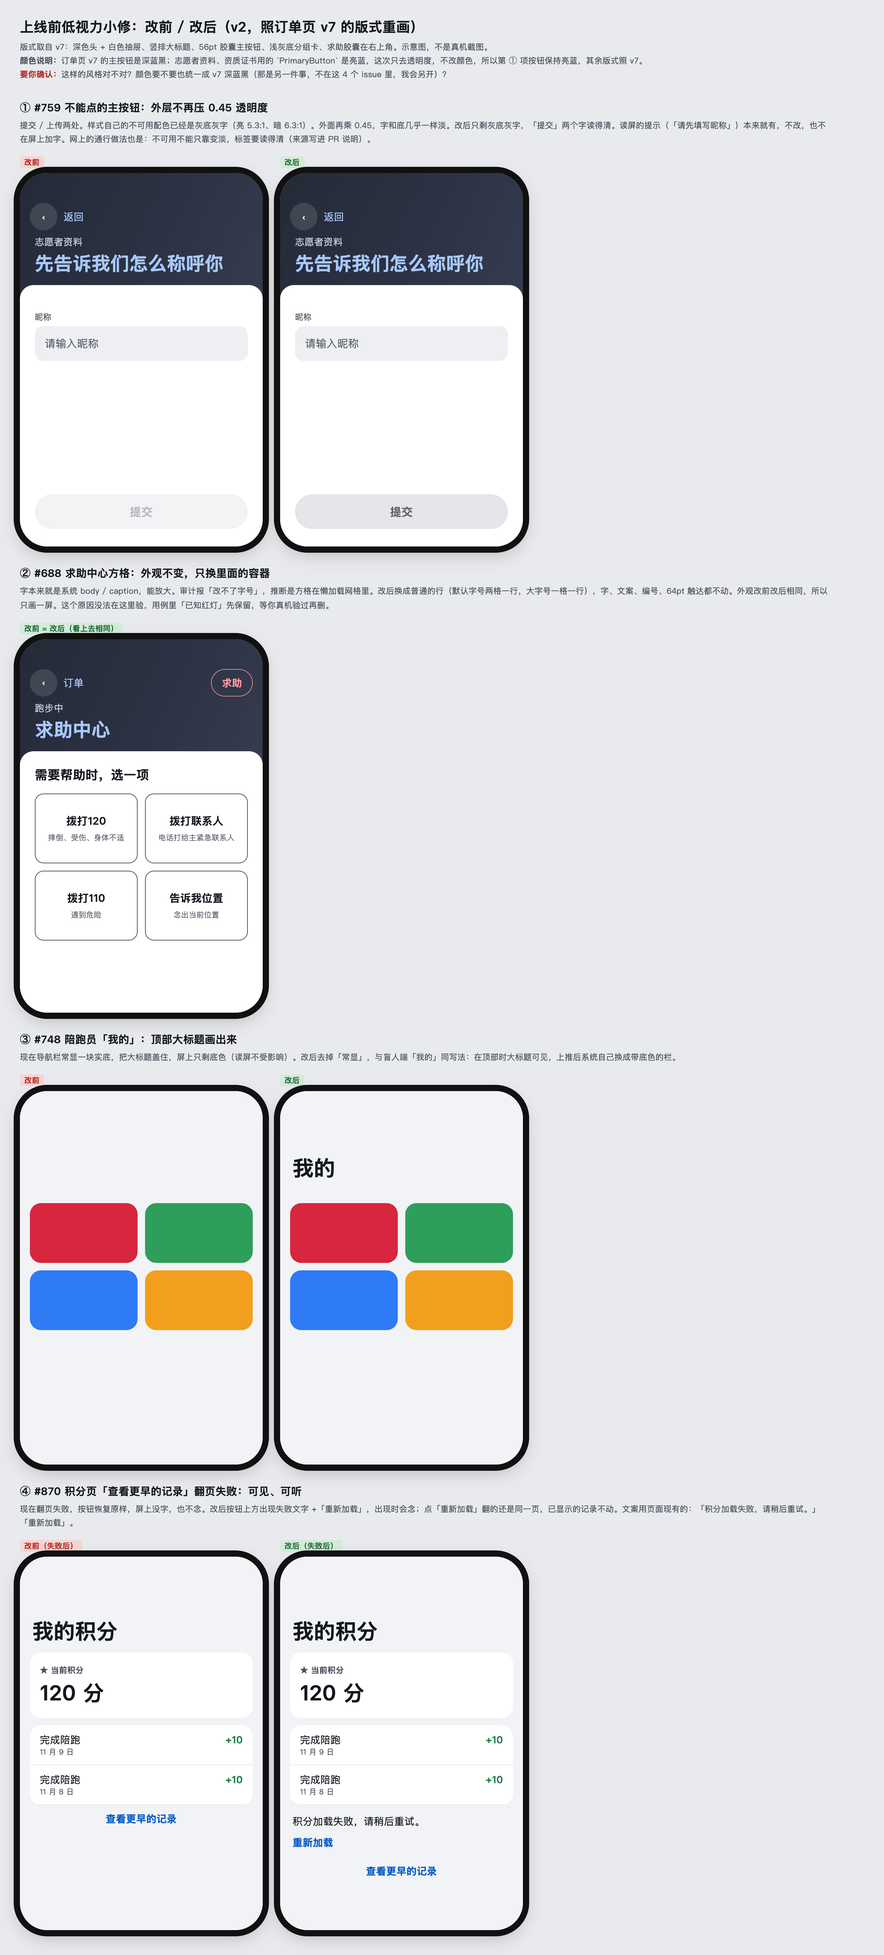
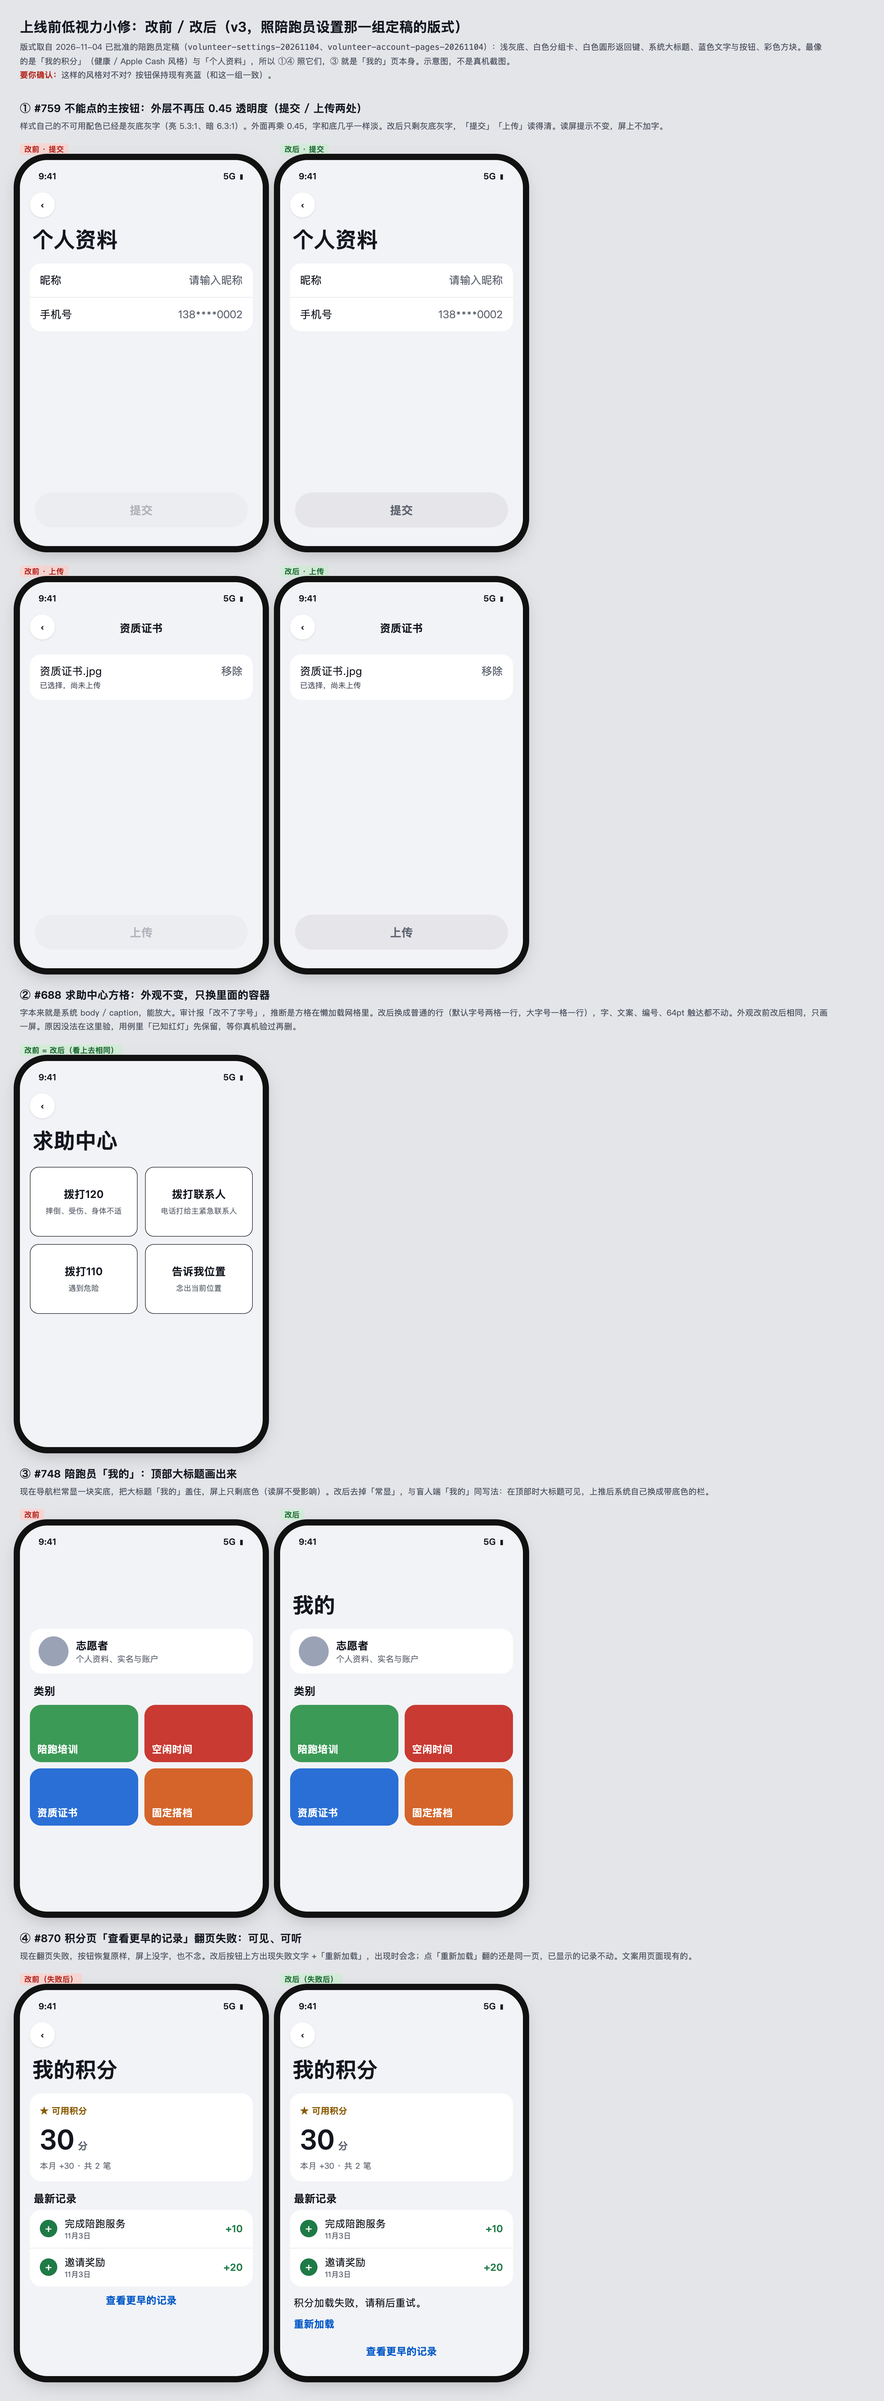
docs: 低视力小修模拟图改照陪跑员设置组定稿版式（v3）

Changed region(s): [[0.0, 0.1872, 0.6197, 0.9984], [0.0, 0.0, 0.6197, 0.156], [0.5268, 0.4056, 0.5577, 0.4368]]

diff --git a/docs/ui/mockups/lowvision-fixes-20261111/draft.html b/docs/ui/mockups/lowvision-fixes-20261111/draft.html
@@ -1,122 +1,62 @@
 <!doctype html>
-<html lang="zh-Hans">
-<head>
-<meta charset="utf-8">
-<title>上线前低视力小修 改前 / 改后（v2：照订单页 v7 的版式，2026-11-11，#759 #688 #748 #870）</title>
-<style>
-  :root{--navy:#1F2433;--ink:#14171F;--ink2:#4A4F5C;--ink3:#5F6470;--line:#E6E7EB;--page:#E9EAEE;--chip:#EEEFF2;
-    --title:#A8C8FF;--red:#D7263D;--blue:#0058C7;--g5:#E5E5EA;--green:#1E7A46}
+<html lang="zh-Hans"><head><meta charset="utf-8"><title>上线前低视力小修 改前 / 改后（v3：照陪跑员「我的」「个人资料」「积分」定稿的版式，2026-11-11）</title><style>
+  :root{--ink:#14171F;--ink2:#4A4F5C;--ink3:#5F6470;--line:#E6E7EB;--page:#F2F3F6;--bg:#E4E5E9;--blue:#0058C7;--g5:#E5E5EA;--green:#1E7A46}
   *{box-sizing:border-box;margin:0;padding:0}
-  body{font-family:-apple-system,"PingFang SC","Helvetica Neue",sans-serif;background:var(--page);color:var(--ink);padding:28px 32px 40px}
+  body{font-family:-apple-system,"PingFang SC","Helvetica Neue",sans-serif;background:var(--bg);color:var(--ink);padding:28px 32px 40px}
   h1{font-size:22px;margin-bottom:6px}
   .lead{font-size:13px;color:var(--ink2);line-height:1.7;max-width:1300px;margin-bottom:22px}
   h2{font-size:17px;margin:30px 0 4px}
   .why{font-size:13px;color:var(--ink2);line-height:1.7;max-width:1300px;margin-bottom:14px}
   .row{display:flex;gap:28px;flex-wrap:wrap;align-items:flex-start}
   .cell{width:390px}
-  .cap{font-size:14px;font-weight:600;margin:12px 0 4px}
   .tag{display:inline-block;font-size:12px;font-weight:700;border-radius:4px;padding:1px 7px;margin-bottom:8px}
   .b{background:#F6D6D3;color:#B3261E}.a{background:#D4EBD9;color:#1B6B30}
-  .note{font-size:12px;color:var(--ink2);line-height:1.6;background:#fff;border-radius:12px;padding:12px 14px;margin-top:10px}
   .ask{color:#B3261E;font-weight:600}
-  /* 手机壳与 v7 同款 */
-  .phone{width:390px;height:600px;border-radius:44px;overflow:hidden;position:relative;background:#fff;box-shadow:0 0 0 10px #111,0 10px 30px rgba(0,0,0,.25)}
-  .top{position:absolute;left:0;right:0;top:0;height:96px;padding:44px 16px 0;display:flex;align-items:center;gap:10px;z-index:5}
-  .round{width:44px;height:44px;border-radius:22px;display:flex;align-items:center;justify-content:center;font-size:18px}
-  .round.dark{background:rgba(255,255,255,.12);color:#fff}
-  .spacer{flex:1}
-  .sos{height:44px;padding:0 16px;border-radius:22px;font-weight:700;font-size:16px;display:flex;align-items:center;gap:6px;background:transparent;border:1.5px solid #FF8C95;color:#FF9AA2}
-  .back-text{color:var(--title);font-size:16px}
-  .hero{background:linear-gradient(115deg,#252A38 0%,#2C3243 55%,#353C4F 100%);height:200px;padding:100px 24px 0;color:#fff}
-  .hero .k{font-size:15px;color:#C9CFDB;margin-bottom:6px}
-  .hero .t{font-size:30px;font-weight:700;color:var(--title);line-height:1.25}
-  .sheet{position:absolute;left:0;right:0;bottom:0;top:180px;background:#fff;border-radius:22px 22px 0 0;padding:24px 24px 0}
-  .place{font-size:20px;font-weight:700}
-  .sub{font-size:15px;color:var(--ink2);margin-top:4px}
-  .cta{position:absolute;left:24px;right:24px;bottom:28px;height:56px;border-radius:28px;background:var(--navy);color:#fff;font-size:18px;font-weight:700;display:flex;align-items:center;justify-content:center}
-  .cta.blue{background:var(--blue)}
+  .phone{width:390px;height:620px;border-radius:44px;overflow:hidden;position:relative;background:var(--page);box-shadow:0 0 0 10px #111,0 10px 30px rgba(0,0,0,.25)}
+  .sb{position:absolute;left:0;right:0;top:0;height:44px;padding:16px 30px 0;display:flex;justify-content:space-between;font-size:14px;font-weight:600}
+  .back{position:absolute;left:16px;top:52px;width:40px;height:40px;border-radius:20px;background:#fff;display:flex;align-items:center;justify-content:center;font-size:20px;box-shadow:0 1px 3px rgba(0,0,0,.12)}
+  .large{position:absolute;left:20px;top:104px;font-size:34px;font-weight:700}
+  .large.gone{color:transparent}
+  .body{position:absolute;left:16px;right:16px;top:166px}
+  .card{background:#fff;border-radius:18px;overflow:hidden}
+  .r{padding:15px 16px;border-bottom:1px solid var(--line);display:flex;justify-content:space-between;font-size:17px}
+  .r:last-child{border-bottom:none}.r span:last-child{color:var(--ink3)}
+  .r small{display:block;font-size:12px;color:var(--ink2);margin-top:2px}
+  .sec{font-size:13px;color:var(--ink3);margin:16px 6px 6px}
+  .cta{position:absolute;left:24px;right:24px;bottom:30px;height:56px;border-radius:28px;background:var(--blue);color:#fff;font-size:18px;font-weight:700;display:flex;align-items:center;justify-content:center}
   .cta.off{background:var(--g5);color:var(--ink3)}
-  .cta.dim{opacity:.45}
-  .hint{position:absolute;left:24px;right:24px;bottom:96px;font-size:14px;color:var(--ink2);text-align:center}
-  .field{margin-top:18px}.field p{font-size:13px;color:var(--ink2);margin-bottom:6px}
-  .input{height:56px;border-radius:14px;background:var(--chip);display:flex;align-items:center;padding:0 16px;font-size:17px;color:var(--ink3)}
-  /* 求助中心方格 */
-  .tiles{margin-top:16px;display:grid;grid-template-columns:1fr 1fr;gap:12px}
-  .tile{border:1.5px solid rgba(20,23,31,.85);border-radius:14px;padding:12px;min-height:112px;text-align:center;display:flex;flex-direction:column;justify-content:center;gap:6px}
+  .dim{opacity:.45}
+  .ph{color:var(--ink3)}
+  .sq{display:grid;grid-template-columns:1fr 1fr;gap:10px;margin-top:10px}
+  .sq i{height:92px;border-radius:18px;display:flex;align-items:flex-end;padding:10px 12px;color:#fff;font-weight:700;font-size:16px;font-style:normal}
+  .acc{display:flex;gap:12px;align-items:center;padding:12px 14px}
+  .av{width:48px;height:48px;border-radius:24px;background:#9AA3B5}
+  .acc b{font-size:17px}.acc small{display:block;font-size:13px;color:var(--ink3)}
+  .tiles{display:grid;grid-template-columns:1fr 1fr;gap:12px;margin-top:4px}
+  .tile{background:#fff;border:1.5px solid rgba(20,23,31,.85);border-radius:14px;padding:12px;min-height:112px;text-align:center;display:flex;flex-direction:column;justify-content:center;gap:6px}
   .tile b{font-size:17px}.tile span{font-size:12px;color:var(--ink3)}
-  /* 我的 */
-  .page{position:absolute;inset:0;background:#F2F3F6}
-  .nav{position:absolute;left:0;right:0;top:0;height:96px}
-  .big{position:absolute;left:20px;top:100px;font-size:34px;font-weight:700}
-  .big.gone{color:transparent}
-  .sq{position:absolute;left:16px;right:16px;top:180px;display:grid;grid-template-columns:1fr 1fr;gap:12px}
-  .sq i{height:96px;border-radius:18px;display:block}
-  .acct{position:absolute;left:16px;right:16px;top:150px;display:none}
-  /* 积分页 */
-  .bal{background:#fff;border-radius:18px;padding:16px;margin-bottom:12px}
-  .bal small{font-size:13px;color:var(--ink2);font-weight:600}.bal b{display:block;font-size:34px;margin-top:2px}
-  .ledger{background:#fff;border-radius:18px;overflow:hidden}
-  .li{padding:12px 16px;border-bottom:1px solid var(--line);display:flex;justify-content:space-between;font-size:16px}
-  .li small{display:block;font-size:12px;color:var(--ink2)}
-  .li b{color:var(--green)}
-  .fail{padding:14px 4px 2px;font-size:16px;line-height:1.5}
+  .bal small{font-size:14px;color:#8A5A00;font-weight:600}.bal b{display:block;font-size:44px;margin:4px 0 2px}.bal b i{font-size:16px;font-style:normal;color:var(--ink3)}.bal p{font-size:13px;color:var(--ink3)}
+  .plus{width:28px;height:28px;border-radius:14px;background:var(--green);color:#fff;text-align:center;line-height:28px;font-size:18px;margin-right:12px;flex:none}
+  .li{display:flex;align-items:center;padding:11px 16px;border-bottom:1px solid var(--line);font-size:16px}
+  .li:last-child{border-bottom:none}.li div{flex:1}.li small{display:block;font-size:12px;color:var(--ink2)}.li em{font-style:normal;font-weight:600;color:var(--green)}
+  .fail{padding:14px 6px 0;font-size:16px;line-height:1.5}
   .fail .retry{display:block;color:var(--blue);font-weight:600;min-height:44px;line-height:44px}
   .more{text-align:center;color:var(--blue);font-weight:600;font-size:16px;min-height:44px;line-height:44px}
-</style>
-</head>
-<body>
-<h1>上线前低视力小修：改前 / 改后（v2，照订单页 v7 的版式重画）</h1>
-<p class="lead">版式取自 v7：深色头 + 白色抽屉、竖排大标题、56pt 胶囊主按钮、浅灰底分组卡、求助胶囊在右上角。示意图，不是真机截图。<br>
-<b>颜色说明：</b>订单页 v7 的主按钮是深蓝黑；志愿者资料、资质证书用的 `PrimaryButton` 是亮蓝，这次只去透明度，不改颜色，所以第 ① 项按钮保持亮蓝，其余版式照 v7。<br>
-<span class="ask">要你确认：</span>这样的风格对不对？颜色要不要也统一成 v7 深蓝黑（那是另一件事，不在这 4 个 issue 里，我会另开）？</p>
-
-<h2>① #759 不能点的主按钮：外层不再压 0.45 透明度</h2>
-<p class="why">提交 / 上传两处。样式自己的不可用配色已经是灰底灰字（亮 5.3:1、暗 6.3:1）。外面再乘 0.45，字和底几乎一样淡。改后只剩灰底灰字，「提交」两个字读得清。读屏的提示（「请先填写昵称」）本来就有，不改，也不在屏上加字。网上的通行做法也是：不可用不能只靠变淡，标签要读得清（来源写进 PR 说明）。</p>
-<div class="row">
-  <div class="cell"><span class="tag b">改前</span>
-    <div class="phone"><div class="top"><div class="round dark">‹</div><div class="back-text">返回</div></div>
-      <div class="hero"><div class="k">志愿者资料</div><div class="t">先告诉我们怎么称呼你</div></div>
-      <div class="sheet"><div class="field"><p>昵称</p><div class="input">请输入昵称</div></div></div>
-      <div class="cta blue off dim">提交</div></div></div>
-  <div class="cell"><span class="tag a">改后</span>
-    <div class="phone"><div class="top"><div class="round dark">‹</div><div class="back-text">返回</div></div>
-      <div class="hero"><div class="k">志愿者资料</div><div class="t">先告诉我们怎么称呼你</div></div>
-      <div class="sheet"><div class="field"><p>昵称</p><div class="input">请输入昵称</div></div></div>
-      <div class="cta blue off">提交</div></div></div>
-</div>
-
+</style></head><body>
+<h1>上线前低视力小修：改前 / 改后（v3，照陪跑员设置那一组定稿的版式）</h1>
+<p class="lead">版式取自 2026-11-04 已批准的陪跑员定稿（<code>volunteer-settings-20261104</code>、<code>volunteer-account-pages-20261104</code>）：浅灰底、白色分组卡、白色圆形返回键、系统大标题、蓝色文字与按钮、彩色方块。最像的是「我的积分」（健康 / Apple Cash 风格）与「个人资料」，所以 ①④ 照它们，③ 就是「我的」页本身。示意图，不是真机截图。<br>
+<span class="ask">要你确认：</span>这样的风格对不对？按钮保持现有亮蓝（和这一组一致）。</p>
+<h2>① #759 不能点的主按钮：外层不再压 0.45 透明度（提交 / 上传两处）</h2>
+<p class="why">样式自己的不可用配色已经是灰底灰字（亮 5.3:1、暗 6.3:1）。外面再乘 0.45，字和底几乎一样淡。改后只剩灰底灰字，「提交」「上传」读得清。读屏提示不变，屏上不加字。</p>
+<div class="row"><div class="cell"><span class="tag b">改前 · 提交</span><div class="phone"><div class="sb"><span>9:41</span><span>5G ▮</span></div><div class="back">‹</div><div class="large">个人资料</div><div class="body"><div class="card"><div class="r"><span>昵称</span><span class="ph">请输入昵称</span></div><div class="r"><span>手机号</span><span>138****0002</span></div></div></div><div class="cta off dim">提交</div></div></div><div class="cell"><span class="tag a">改后 · 提交</span><div class="phone"><div class="sb"><span>9:41</span><span>5G ▮</span></div><div class="back">‹</div><div class="large">个人资料</div><div class="body"><div class="card"><div class="r"><span>昵称</span><span class="ph">请输入昵称</span></div><div class="r"><span>手机号</span><span>138****0002</span></div></div></div><div class="cta off">提交</div></div></div></div>
+<div class="row" style="margin-top:28px"><div class="cell"><span class="tag b">改前 · 上传</span><div class="phone"><div class="sb"><span>9:41</span><span>5G ▮</span></div><div class="back">‹</div><div class="large" style="font-size:17px;left:0;right:0;text-align:center;top:62px">资质证书</div><div class="body" style="top:116px"><div class="card"><div class="r"><span>资质证书.jpg<small>已选择，尚未上传</small></span><span>移除</span></div></div></div><div class="cta off dim">上传</div></div></div><div class="cell"><span class="tag a">改后 · 上传</span><div class="phone"><div class="sb"><span>9:41</span><span>5G ▮</span></div><div class="back">‹</div><div class="large" style="font-size:17px;left:0;right:0;text-align:center;top:62px">资质证书</div><div class="body" style="top:116px"><div class="card"><div class="r"><span>资质证书.jpg<small>已选择，尚未上传</small></span><span>移除</span></div></div></div><div class="cta off">上传</div></div></div></div>
 <h2>② #688 求助中心方格：外观不变，只换里面的容器</h2>
-<p class="why">字本来就是系统 body / caption，能放大。审计报「改不了字号」，推断是方格在懒加载网格里。改后换成普通的行（默认字号两格一行，大字号一格一行），字、文案、编号、64pt 触达都不动。外观改前改后相同，所以只画一屏。这个原因没法在这里验，用例里「已知红灯」先保留，等你真机验过再删。</p>
-<div class="row"><div class="cell"><span class="tag a">改前 = 改后（看上去相同）</span>
-  <div class="phone"><div class="top"><div class="round dark">‹</div><div class="back-text">订单</div><div class="spacer"></div><div class="sos">求助</div></div>
-    <div class="hero"><div class="k">跑步中</div><div class="t">求助中心</div></div>
-    <div class="sheet"><div class="place">需要帮助时，选一项</div>
-      <div class="tiles"><div class="tile"><b>拨打120</b><span>摔倒、受伤、身体不适</span></div><div class="tile"><b>拨打联系人</b><span>电话打给主紧急联系人</span></div>
-      <div class="tile"><b>拨打110</b><span>遇到危险</span></div><div class="tile"><b>告诉我位置</b><span>念出当前位置</span></div></div></div></div></div></div>
-
+<p class="why">字本来就是系统 body / caption，能放大。审计报「改不了字号」，推断是方格在懒加载网格里。改后换成普通的行（默认字号两格一行，大字号一格一行），字、文案、编号、64pt 触达都不动。外观改前改后相同，只画一屏。原因没法在这里验，用例里「已知红灯」先保留，等你真机验过再删。</p>
+<div class="row"><div class="cell"><span class="tag a">改前 = 改后（看上去相同）</span><div class="phone"><div class="sb"><span>9:41</span><span>5G ▮</span></div><div class="back">‹</div><div class="large">求助中心</div><div class="body"><div class="tiles"><div class="tile"><b>拨打120</b><span>摔倒、受伤、身体不适</span></div><div class="tile"><b>拨打联系人</b><span>电话打给主紧急联系人</span></div><div class="tile"><b>拨打110</b><span>遇到危险</span></div><div class="tile"><b>告诉我位置</b><span>念出当前位置</span></div></div></div></div></div></div>
 <h2>③ #748 陪跑员「我的」：顶部大标题画出来</h2>
-<p class="why">现在导航栏常显一块实底，把大标题盖住，屏上只剩底色（读屏不受影响）。改后去掉「常显」，与盲人端「我的」同写法：在顶部时大标题可见，上推后系统自己换成带底色的栏。</p>
-<div class="row">
-  <div class="cell"><span class="tag b">改前</span>
-    <div class="phone"><div class="page"><div class="nav"></div><div class="big gone">我的</div><div class="sq"><i style="background:#D7263D"></i><i style="background:#2E9E5B"></i><i style="background:#2F7BF6"></i><i style="background:#F29F1D"></i></div></div></div></div>
-  <div class="cell"><span class="tag a">改后</span>
-    <div class="phone"><div class="page"><div class="nav"></div><div class="big">我的</div><div class="sq"><i style="background:#D7263D"></i><i style="background:#2E9E5B"></i><i style="background:#2F7BF6"></i><i style="background:#F29F1D"></i></div></div></div></div>
-</div>
-
+<p class="why">现在导航栏常显一块实底，把大标题「我的」盖住，屏上只剩底色（读屏不受影响）。改后去掉「常显」，与盲人端「我的」同写法：在顶部时大标题可见，上推后系统自己换成带底色的栏。</p>
+<div class="row"><div class="cell"><span class="tag b">改前</span><div class="phone"><div class="sb"><span>9:41</span><span>5G ▮</span></div><div class="large gone">我的</div><div class="body"><div class="card acc"><div class="av"></div><div><b>志愿者</b><small>个人资料、实名与账户</small></div></div><div class="sec" style="font-weight:700;color:var(--ink);font-size:17px">类别</div><div class="sq"><i style="background:#3C9A57">陪跑培训</i><i style="background:#C83A32">空闲时间</i><i style="background:#2A6FD6">资质证书</i><i style="background:#D4642A">固定搭档</i></div></div></div></div><div class="cell"><span class="tag a">改后</span><div class="phone"><div class="sb"><span>9:41</span><span>5G ▮</span></div><div class="large">我的</div><div class="body"><div class="card acc"><div class="av"></div><div><b>志愿者</b><small>个人资料、实名与账户</small></div></div><div class="sec" style="font-weight:700;color:var(--ink);font-size:17px">类别</div><div class="sq"><i style="background:#3C9A57">陪跑培训</i><i style="background:#C83A32">空闲时间</i><i style="background:#2A6FD6">资质证书</i><i style="background:#D4642A">固定搭档</i></div></div></div></div></div>
 <h2>④ #870 积分页「查看更早的记录」翻页失败：可见、可听</h2>
-<p class="why">现在翻页失败，按钮恢复原样，屏上没字，也不念。改后按钮上方出现失败文字 +「重新加载」，出现时会念；点「重新加载」翻的还是同一页，已显示的记录不动。文案用页面现有的：「积分加载失败，请稍后重试。」「重新加载」。</p>
-<div class="row">
-  <div class="cell"><span class="tag b">改前（失败后）</span>
-    <div class="phone"><div class="page" style="padding:104px 16px 0"><div class="big" style="top:96px">我的积分</div><div style="height:50px"></div>
-      <div class="bal"><small>★ 当前积分</small><b>120 分</b></div>
-      <div class="ledger"><div class="li"><span>完成陪跑<small>11 月 9 日</small></span><b>+10</b></div><div class="li"><span>完成陪跑<small>11 月 8 日</small></span><b>+10</b></div></div>
-      <div class="more">查看更早的记录</div></div></div></div>
-  <div class="cell"><span class="tag a">改后（失败后）</span>
-    <div class="phone"><div class="page" style="padding:104px 16px 0"><div class="big" style="top:96px">我的积分</div><div style="height:50px"></div>
-      <div class="bal"><small>★ 当前积分</small><b>120 分</b></div>
-      <div class="ledger"><div class="li"><span>完成陪跑<small>11 月 9 日</small></span><b>+10</b></div><div class="li"><span>完成陪跑<small>11 月 8 日</small></span><b>+10</b></div></div>
-      <div class="fail">积分加载失败，请稍后重试。<span class="retry">重新加载</span></div>
-      <div class="more">查看更早的记录</div></div></div></div>
-</div>
-</body>
-</html>
+<p class="why">现在翻页失败，按钮恢复原样，屏上没字，也不念。改后按钮上方出现失败文字 +「重新加载」，出现时会念；点「重新加载」翻的还是同一页，已显示的记录不动。文案用页面现有的。</p>
+<div class="row"><div class="cell"><span class="tag b">改前（失败后）</span><div class="phone"><div class="sb"><span>9:41</span><span>5G ▮</span></div><div class="back">‹</div><div class="large">我的积分</div><div class="body"><div class="card bal" style="padding:16px"><small>★ 可用积分</small><b>30<i> 分</i></b><p>本月 +30 · 共 2 笔</p></div><div class="sec" style="font-weight:700;color:var(--ink);font-size:17px">最新记录</div><div class="card"><div class="li"><span class="plus">+</span><div>完成陪跑服务<small>11月3日</small></div><em>+10</em></div><div class="li"><span class="plus">+</span><div>邀请奖励<small>11月3日</small></div><em>+20</em></div></div><div class="more">查看更早的记录</div></div></div></div><div class="cell"><span class="tag a">改后（失败后）</span><div class="phone"><div class="sb"><span>9:41</span><span>5G ▮</span></div><div class="back">‹</div><div class="large">我的积分</div><div class="body"><div class="card bal" style="padding:16px"><small>★ 可用积分</small><b>30<i> 分</i></b><p>本月 +30 · 共 2 笔</p></div><div class="sec" style="font-weight:700;color:var(--ink);font-size:17px">最新记录</div><div class="card"><div class="li"><span class="plus">+</span><div>完成陪跑服务<small>11月3日</small></div><em>+10</em></div><div class="li"><span class="plus">+</span><div>邀请奖励<small>11月3日</small></div><em>+20</em></div></div><div class="fail">积分加载失败，请稍后重试。<span class="retry">重新加载</span></div><div class="more">查看更早的记录</div></div></div></div></div>
+</body></html>
